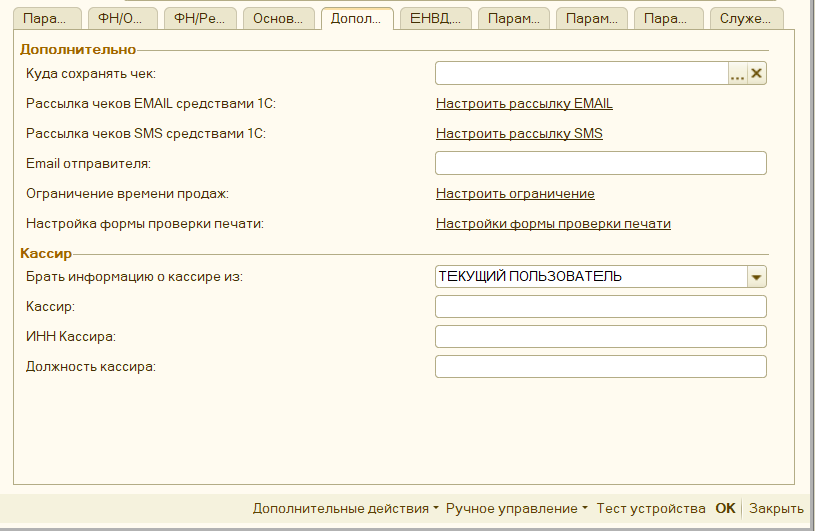
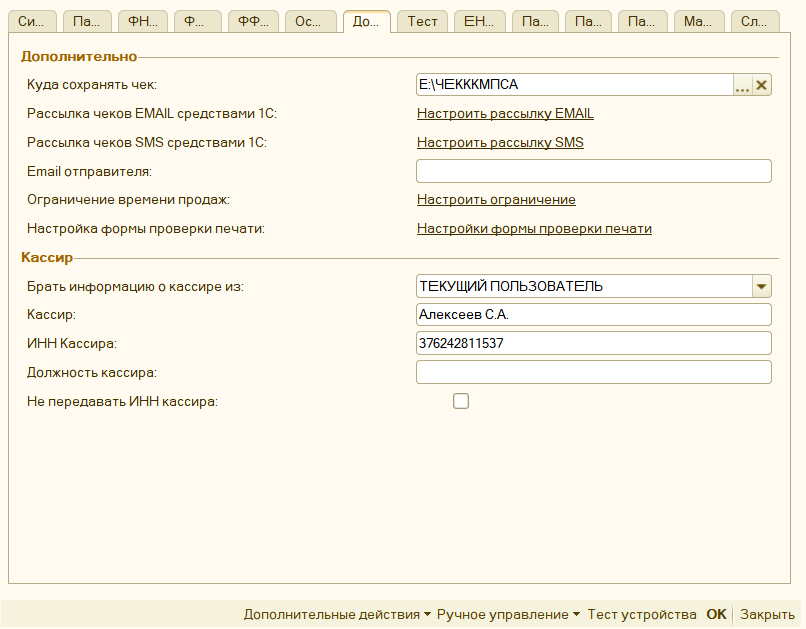
4.09

Changed region(s): [[0.0, 0.0, 1.0, 1.0]]

diff --git a/docs/marking.md b/docs/marking.md
@@ -88,18 +88,9 @@
 ### Архитектура взаимодействия (упрощенно)
 
 1. Учетная система (1С) формирует данные чека.
-2. Маркированный товар передается:
-
-   * не напрямую в Честный знак,
-   * а в **ТС ПИоТ**.
-3. ТС ПИоТ:
-
-   * выполняет проверку (онлайн или офлайн),
-   * возвращает результат проверки.
-4. Результат проверки передается:
-
-   * в кассу,
-   * далее — фиксируется в фискальных данных.
+2. Маркированный товар передается, не напрямую в Честный знак, а в **ТС ПИоТ**.
+1. ТС ПИоТ выполняет проверку (онлайн или офлайн), возвращает результат проверки.
+2. Результат проверки передается в кассу, далее — фиксируется в фискальных данных.
 
 Таким образом, **вся логика разрешительного режима изолируется в ТС ПИоТ**.
 
@@ -109,13 +100,8 @@
 
 На текущий момент инфраструктура ТС ПИоТ считается **незрелой**, возможны технические несоответствия:
 
-* Некоторые версии драйверов содержат поддержку gRPC, но:
-
-  * не поддерживают НДС 22%.
-* Более новые драйверы:
-
-  * поддерживают НДС 22%,
-  * но могут не содержать необходимых параметров для интеграции с ТС ПИоТ.
+* Некоторые версии драйверов содержат поддержку gRPC, но не поддерживают НДС 22%.
+* Более новые драйверы поддерживают НДС 22%, но могут не содержать необходимых параметров для интеграции с ТС ПИоТ.
 
 Пример:
 
@@ -130,23 +116,11 @@
 
 Для работы разрешительного режима через ТС ПИоТ необходимо:
 
-* Фискальный регистратор:
-
-  * поддерживает **ФФД 1.2**;
-  * имеет актуальную прошивку.
-* Драйвер ККТ:
-
-  * совместим с ТС ПИоТ;
-  * корректно поддерживает текущие ставки НДС.
-* Версия обработки:
-
-  * **не ниже 4.08**.
-* Установлен и настроен:
-
-  * модуль **ЕСМ (ТС ПИоТ)**.
-* Настроена связь:
-
-  * между фискальным регистратором и ТС ПИоТ.
+* Фискальный регистратор - поддерживает **ФФД 1.2** и имеет актуальную прошивку.
+* Драйвер ККТ совместим с ТС ПИоТ, корректно поддерживает текущие ставки НДС.
+* Версия обработки **не ниже 4.08**.
+* Установлен и настроен модуль **ЕСМ (ТС ПИоТ)**.
+* Настроена связь между фискальным регистратором и ТС ПИоТ.
 
 Без выполнения всех пунктов корректная работа разрешительного режима не гарантируется.
 
@@ -184,8 +158,8 @@
 
 * автоматически заполняются:
 
-  * номер фискального накопителя;
-  * ИНН организации.
+  - номер фискального накопителя;
+  - ИНН организации.
 * дополнительные параметры вводить **не требуется**.
 
 ---
@@ -201,8 +175,8 @@
 
 * вместо прямого обращения в Честный знак:
 
-  * марка передается в ТС ПИоТ;
-  * результат проверки возвращается из него.
+  - марка передается в ТС ПИоТ;
+  - результат проверки возвращается из него.
 
 ---
 
@@ -216,9 +190,9 @@
 * офлайн-режим уже реализован **в самом ТС ПИоТ**;
 * ТС ПИоТ:
 
-  * сам управляет связью,
-  * сам хранит офлайн-данные,
-  * интегрируется с локальным модулем напрямую.
+  - сам управляет связью,
+  - сам хранит офлайн-данные,
+  - интегрируется с локальным модулем напрямую.
 
 Дублирование настройки локального модуля может привести к конфликтам.
 
@@ -512,6 +486,59 @@
 
 > Настройка подходит для любого подакцизного товара
 
+### Настройка Моторные масла
+
+####  Общие требования
+- **Тип маркировки**: `моторные масла`
+- **ФФД**: 1.2 (обязательно для работы с разрешительным режимом и количественным учётом)
+- **Ревизия драйвера**: 4001+ (для поддержки ФФД 1.2 и маркировки)
+- **Разрешительный режим**: Поддерживается с версии обработки **4.09+**
+
+**Включите в настройках**:  
+- Тип маркировки «моторные масла» в **Типы маркировок**  
+- Разрешительный режим с ключом доступа ЧЗ и ИНН организации
+- **Локальный модуль** (с 01.03.2025 обязательный для офлайн-проверки)
+
+#### Номенклатура и учёт
+Создайте **отдельные позиции** для разных источников:
+
+| Тип продажи | Номенклатура | Единица (2108) | Количество (1023) | Примечание |
+|-------------|--------------|----------------|-------------------|------------|
+| Канистры | «Моторное масло [GTIN] 5л» | Штука (0) | 1 (целое) | Сканируется код с канистры |
+| Розлив из кеги | «Моторное масло [GTIN] розлив» | Литр | 0.5; 1.25; 2.0 (дробное) | Код с бочки/кеги + литры [5] |
+
+- **Количество**: дробное для розлива
+- **Признак предмета расчёта**: 33 (маркированный товар)
+
+#### Продажа и проверка
+1. **Сканирование**:  
+   - Канистра: код с канистры → тег 2000  
+   - Кега: код бочки → тег 2000 + литры
+
+2. **Разрешительный режим**:  
+   - Проверка: онлайн (CDN ЧЗ) → офлайн (локальный модуль при недоступности)  
+   - Результат: [M+] в чеке, отраслевой реквизит **1260** с 1262–1265 (UUID+Time)
+   - **Без доп. тегов частичного выбытия** (1291–1294 не используются для литров)
+
+3. **В форме проверки печати**:  
+   - Автозаполнение типа «моторные масла»  
+   - Статус разрешительного режима (ошибки отображаются)  
+   - F7 для сканирования (клавиатурный сканер)[4]
+
+#### Особенности розлива из кеги
+- **Частичное выбытие**: литры суммируются по коду бочки в ЧЗ (остаток ~3–4% без доп. списания)
+- **Пример чека**:  
+  ```
+  Наименование: Моторное масло 5W-40 розлив
+  Количество: 1.75 л [1023=1.75][2108=литр]
+  Код маркировки: [base64 код бочки] [2000]
+  Отраслевой реквизит: [1260 с UUID/Time]
+  ```
+- **Списание**: через ОФД → ЧЗ (уведомление о реализации с объёмом)
+
+#### Возможные ошибки
+- **"Контрольная марка не проверена"**: Проверьте прошивку ФР (ФФД 1.2), драйвер 10.9+ (АТОЛ), компоненты
+- **Дробное количество не принимается**: Убедитесь в ревизии 3004+ и ФФД 1.2
 
 ## Возможные ошибки сканирования ##
 

diff --git a/docs/useful_links.md b/docs/useful_links.md
@@ -17,3 +17,4 @@
 | Официальный сайт с компонентами для оборудования СчетМаш                                     | <https://schetmash.com/>                                                                                                                                                                                                                                                             |
 | Описание методов веб-сервера АТОЛ                                                            | <http://integration.atol.ru/#103cbcf96a>                                                                                                                                                                                                                                             |
 | База знаний АТОЛ для работы по 54 ФЗ                                                         | <https://onedrive.live.com/redir?resid=189C614ED00D4C23%21128&authkey=%21ABE4IM6eOvPtlrQ&page=View&wd=target%2854-%D0%A4%D0%97.one%7C27377c95-2928-4aa8-8fd7-4b03b801c6ef%2F%D0%94%D0%BE%D0%BF.%20%D0%BC%D0%B0%D1%82%D0%B5%D1%80%D0%B8%D0%B0%D0%BB%D1%8B%7Ca071440e-6651-458f-a477-7fba4fd851d0%2F%29> |
+| Актульнаые драйвера ПосЦентр                                                        | <https://disk.yandex.ru/d/6Pj_Co6NfQqV_g> |

diff --git a/docs/parameters_description.md b/docs/parameters_description.md
@@ -75,6 +75,7 @@ hide:
   - **«Кассир»** - имя кассира, которое будет отображаться в чеке. Если оно не заполнено, то будет передано имя текущего пользователя 1С.
   - **«ИНН Кассира»** - ИНН кассира, которое будет передаваться в ОФД. Если не заполнен, то обработка попытается определить ИНН кассира самостоятельно: проверит, есть ли у пользователя или прописанного этому пользователю физлица реквизит ИНН, либо указана информация в поле комментарий, либо дополнительное свойство «ИНН».
   - **«Должность кассира»** - должность кассира, которая будет отображаться в чеке
+  - **Не передавать ИНН Кассира** - отключает передачу ИНН совсем, требуется в случае, если ИНН только с нулями не проходит формато логический контроль в ОФД.
 
 ## ЕНВД, УСН, Нефискальные чеки ##
 

diff --git a/docs/index.md b/docs/index.md
@@ -32,8 +32,8 @@ hide:
 - Работает на операционных системах **Windows** и [**Linux**](connecting.md#особенность-подключения-linux)
 - Поддерживает [**ФФД 1.2**](marking.md#поддержка-ффд-12)
 - Поддерживает **[НДС 5% и 7% УСН](instruction.md#поддержка-ндс-5-и-7)**
-- поддерживает **ставку НДС 22%**
-- поддерживает новый механизм работы проверки маркировки **ТС ПИоТ**
+- поддерживает **[ставку НДС 22%](instruction.md#поддержка-ндс-22)**
+- поддерживает новый механизм работы [проверки маркировки **ТС ПИоТ**](marking.md#разрешительный-режим-тс-пиот)
   
 ## Навигация ##
 

diff --git a/README.md b/README.md
@@ -27,7 +27,9 @@
 - Работает на операционных системах **Windows** и [**Linux**](docs/connecting.md#особенность-подключения-linux)
 - Поддерживает [**ФФД 1.2**](docs/marking.md#поддержка-ффд-12)
 - Поддерживает **[НДС 5% и 7% УСН](docs/instruction.md#поддержка-ндс-5-и-7)**
-
+- поддерживает **[ставку НДС 22%](docs/instruction.md#поддержка-ндс-22)**
+- поддерживает новый механизм работы [проверки маркировки **ТС ПИоТ**](docs/marking.md#разрешительный-режим-тс-пиот)
+- 
 ## Навигация ##
 
 - [**Подключение обработки, и все с этим связанное**](docs/connecting.md)
